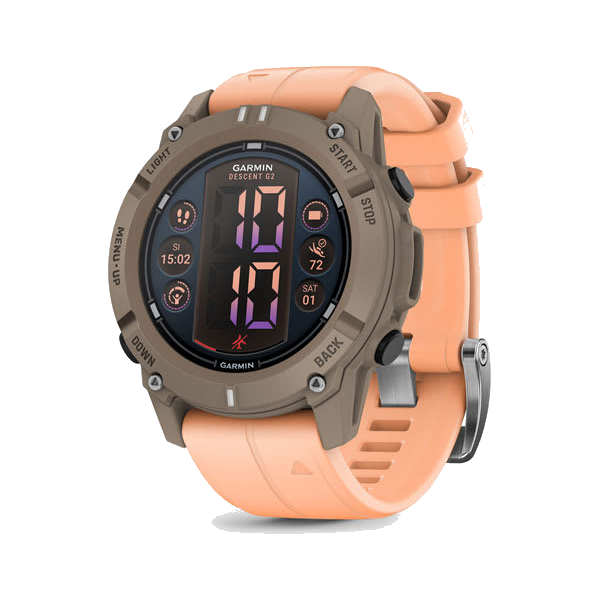
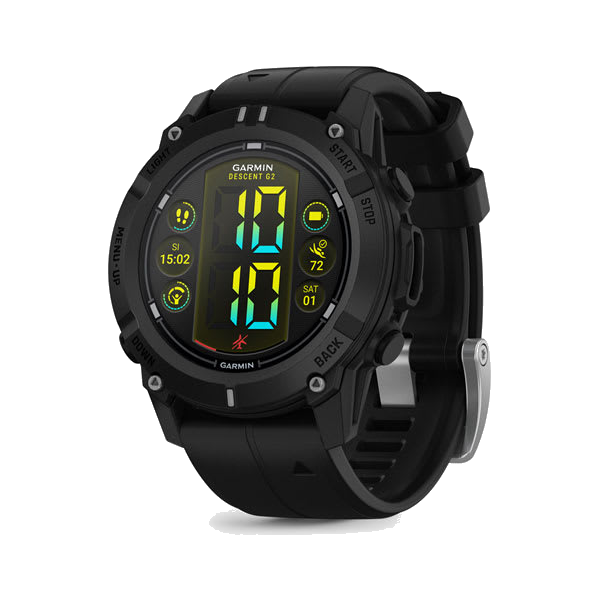
Fix wrong device images

diff --git a/index.html b/index.html
@@ -600,10 +600,10 @@
               <article class="devices-card flex-shrink-0 w-[9.5rem] sm:w-44"><div class="devices-card-image flex items-center justify-center aspect-square p-3"><img src="/images/devices/garmin/forerunner-965.png" alt="" class="max-h-full max-w-full object-contain" width="200" height="200" loading="lazy" decoding="async" aria-hidden="true" /></div><p class="mt-3 text-center text-xs sm:text-sm text-slate-200 font-medium leading-snug">Forerunner 965</p></article>
               <article class="devices-card flex-shrink-0 w-[9.5rem] sm:w-44"><div class="devices-card-image flex items-center justify-center aspect-square p-3"><img src="/images/devices/garmin/forerunner-265.png" alt="" class="max-h-full max-w-full object-contain" width="200" height="200" loading="lazy" decoding="async" aria-hidden="true" /></div><p class="mt-3 text-center text-xs sm:text-sm text-slate-200 font-medium leading-snug">Forerunner 265</p></article>
               <article class="devices-card flex-shrink-0 w-[9.5rem] sm:w-44"><div class="devices-card-image flex items-center justify-center aspect-square p-3"><img src="/images/devices/garmin/forerunner-255.png" alt="" class="max-h-full max-w-full object-contain" width="200" height="200" loading="lazy" decoding="async" aria-hidden="true" /></div><p class="mt-3 text-center text-xs sm:text-sm text-slate-200 font-medium leading-snug">Forerunner 255</p></article>
-              <article class="devices-card flex-shrink-0 w-[9.5rem] sm:w-44"><div class="devices-card-image flex items-center justify-center aspect-square p-3"><img src="/images/devices/garmin/instinct-3-amoled.png" alt="" class="max-h-full max-w-full object-contain" width="200" height="200" loading="lazy" decoding="async" aria-hidden="true" /></div><p class="mt-3 text-center text-xs sm:text-sm text-slate-200 font-medium leading-snug">Instinct 3</p></article>
+              <article class="devices-card flex-shrink-0 w-[9.5rem] sm:w-44"><div class="devices-card-image flex items-center justify-center aspect-square p-3"><img src="/images/devices/garmin/instinct-3-amoled.png?v=2" alt="" class="max-h-full max-w-full object-contain" width="200" height="200" loading="lazy" decoding="async" aria-hidden="true" /></div><p class="mt-3 text-center text-xs sm:text-sm text-slate-200 font-medium leading-snug">Instinct 3</p></article>
               <article class="devices-card flex-shrink-0 w-[9.5rem] sm:w-44"><div class="devices-card-image flex items-center justify-center aspect-square p-3"><img src="/images/devices/garmin/instinct-crossover.png" alt="" class="max-h-full max-w-full object-contain" width="200" height="200" loading="lazy" decoding="async" aria-hidden="true" /></div><p class="mt-3 text-center text-xs sm:text-sm text-slate-200 font-medium leading-snug">Instinct Crossover</p></article>
-              <article class="devices-card flex-shrink-0 w-[9.5rem] sm:w-44"><div class="devices-card-image flex items-center justify-center aspect-square p-3"><img src="/images/devices/garmin/descent-g2.png" alt="" class="max-h-full max-w-full object-contain" width="200" height="200" loading="lazy" decoding="async" aria-hidden="true" /></div><p class="mt-3 text-center text-xs sm:text-sm text-slate-200 font-medium leading-snug">Descent G2</p></article>
-              <article class="devices-card flex-shrink-0 w-[9.5rem] sm:w-44"><div class="devices-card-image flex items-center justify-center aspect-square p-3"><img src="/images/devices/garmin/descent-mk3.png" alt="" class="max-h-full max-w-full object-contain" width="200" height="200" loading="lazy" decoding="async" aria-hidden="true" /></div><p class="mt-3 text-center text-xs sm:text-sm text-slate-200 font-medium leading-snug">Descent MK3</p></article>
+              <article class="devices-card flex-shrink-0 w-[9.5rem] sm:w-44"><div class="devices-card-image flex items-center justify-center aspect-square p-3"><img src="/images/devices/garmin/descent-g2.png?v=2" alt="" class="max-h-full max-w-full object-contain" width="200" height="200" loading="lazy" decoding="async" aria-hidden="true" /></div><p class="mt-3 text-center text-xs sm:text-sm text-slate-200 font-medium leading-snug">Descent G2</p></article>
+              <article class="devices-card flex-shrink-0 w-[9.5rem] sm:w-44"><div class="devices-card-image flex items-center justify-center aspect-square p-3"><img src="/images/devices/garmin/descent-mk3.png?v=2" alt="" class="max-h-full max-w-full object-contain" width="200" height="200" loading="lazy" decoding="async" aria-hidden="true" /></div><p class="mt-3 text-center text-xs sm:text-sm text-slate-200 font-medium leading-snug">Descent Mk3</p></article>
               <article class="devices-card flex-shrink-0 w-[9.5rem] sm:w-44"><div class="devices-card-image flex items-center justify-center aspect-square p-3"><img src="/images/devices/garmin/venu-4-45.png" alt="" class="max-h-full max-w-full object-contain" width="200" height="200" loading="lazy" decoding="async" aria-hidden="true" /></div><p class="mt-3 text-center text-xs sm:text-sm text-slate-200 font-medium leading-snug">Venu 4</p></article>
               <article class="devices-card flex-shrink-0 w-[9.5rem] sm:w-44"><div class="devices-card-image flex items-center justify-center aspect-square p-3"><img src="/images/devices/garmin/venu-x1.png" alt="" class="max-h-full max-w-full object-contain" width="200" height="200" loading="lazy" decoding="async" aria-hidden="true" /></div><p class="mt-3 text-center text-xs sm:text-sm text-slate-200 font-medium leading-snug">Venu X1</p></article>
               <article class="devices-card flex-shrink-0 w-[9.5rem] sm:w-44"><div class="devices-card-image flex items-center justify-center aspect-square p-3"><img src="/images/devices/garmin/venu-sq2.png" alt="" class="max-h-full max-w-full object-contain" width="200" height="200" loading="lazy" decoding="async" aria-hidden="true" /></div><p class="mt-3 text-center text-xs sm:text-sm text-slate-200 font-medium leading-snug">Venu Sq. 2</p></article>
